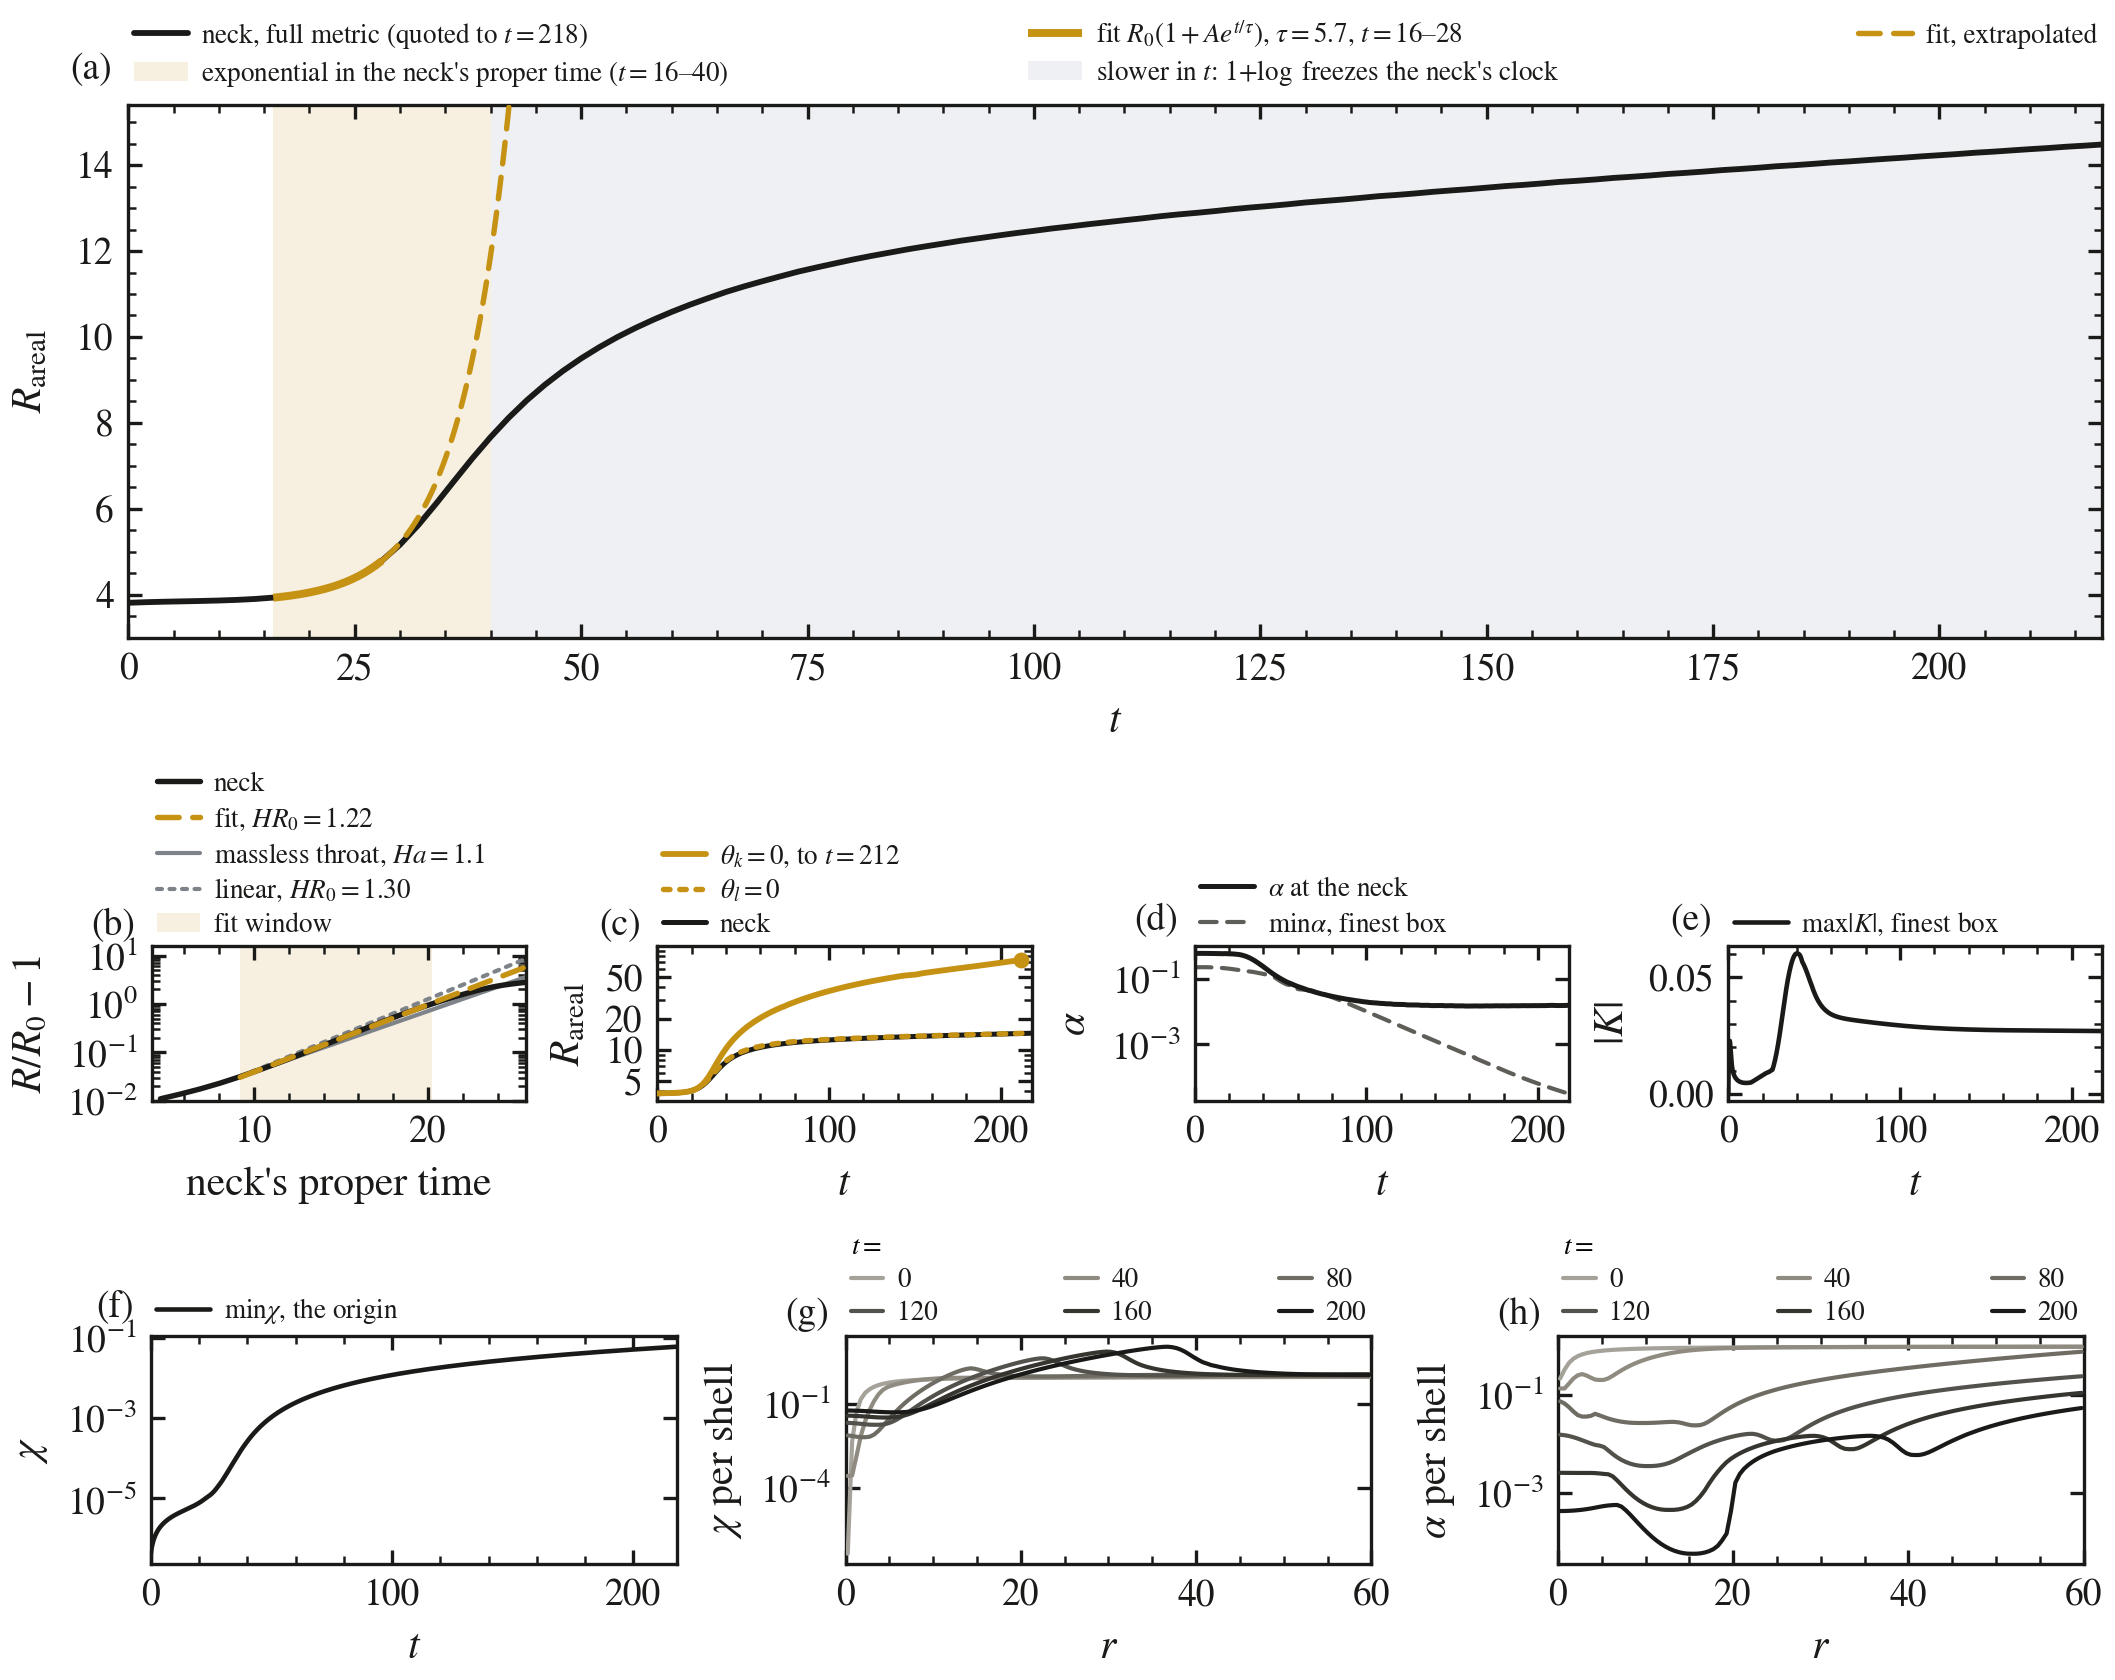
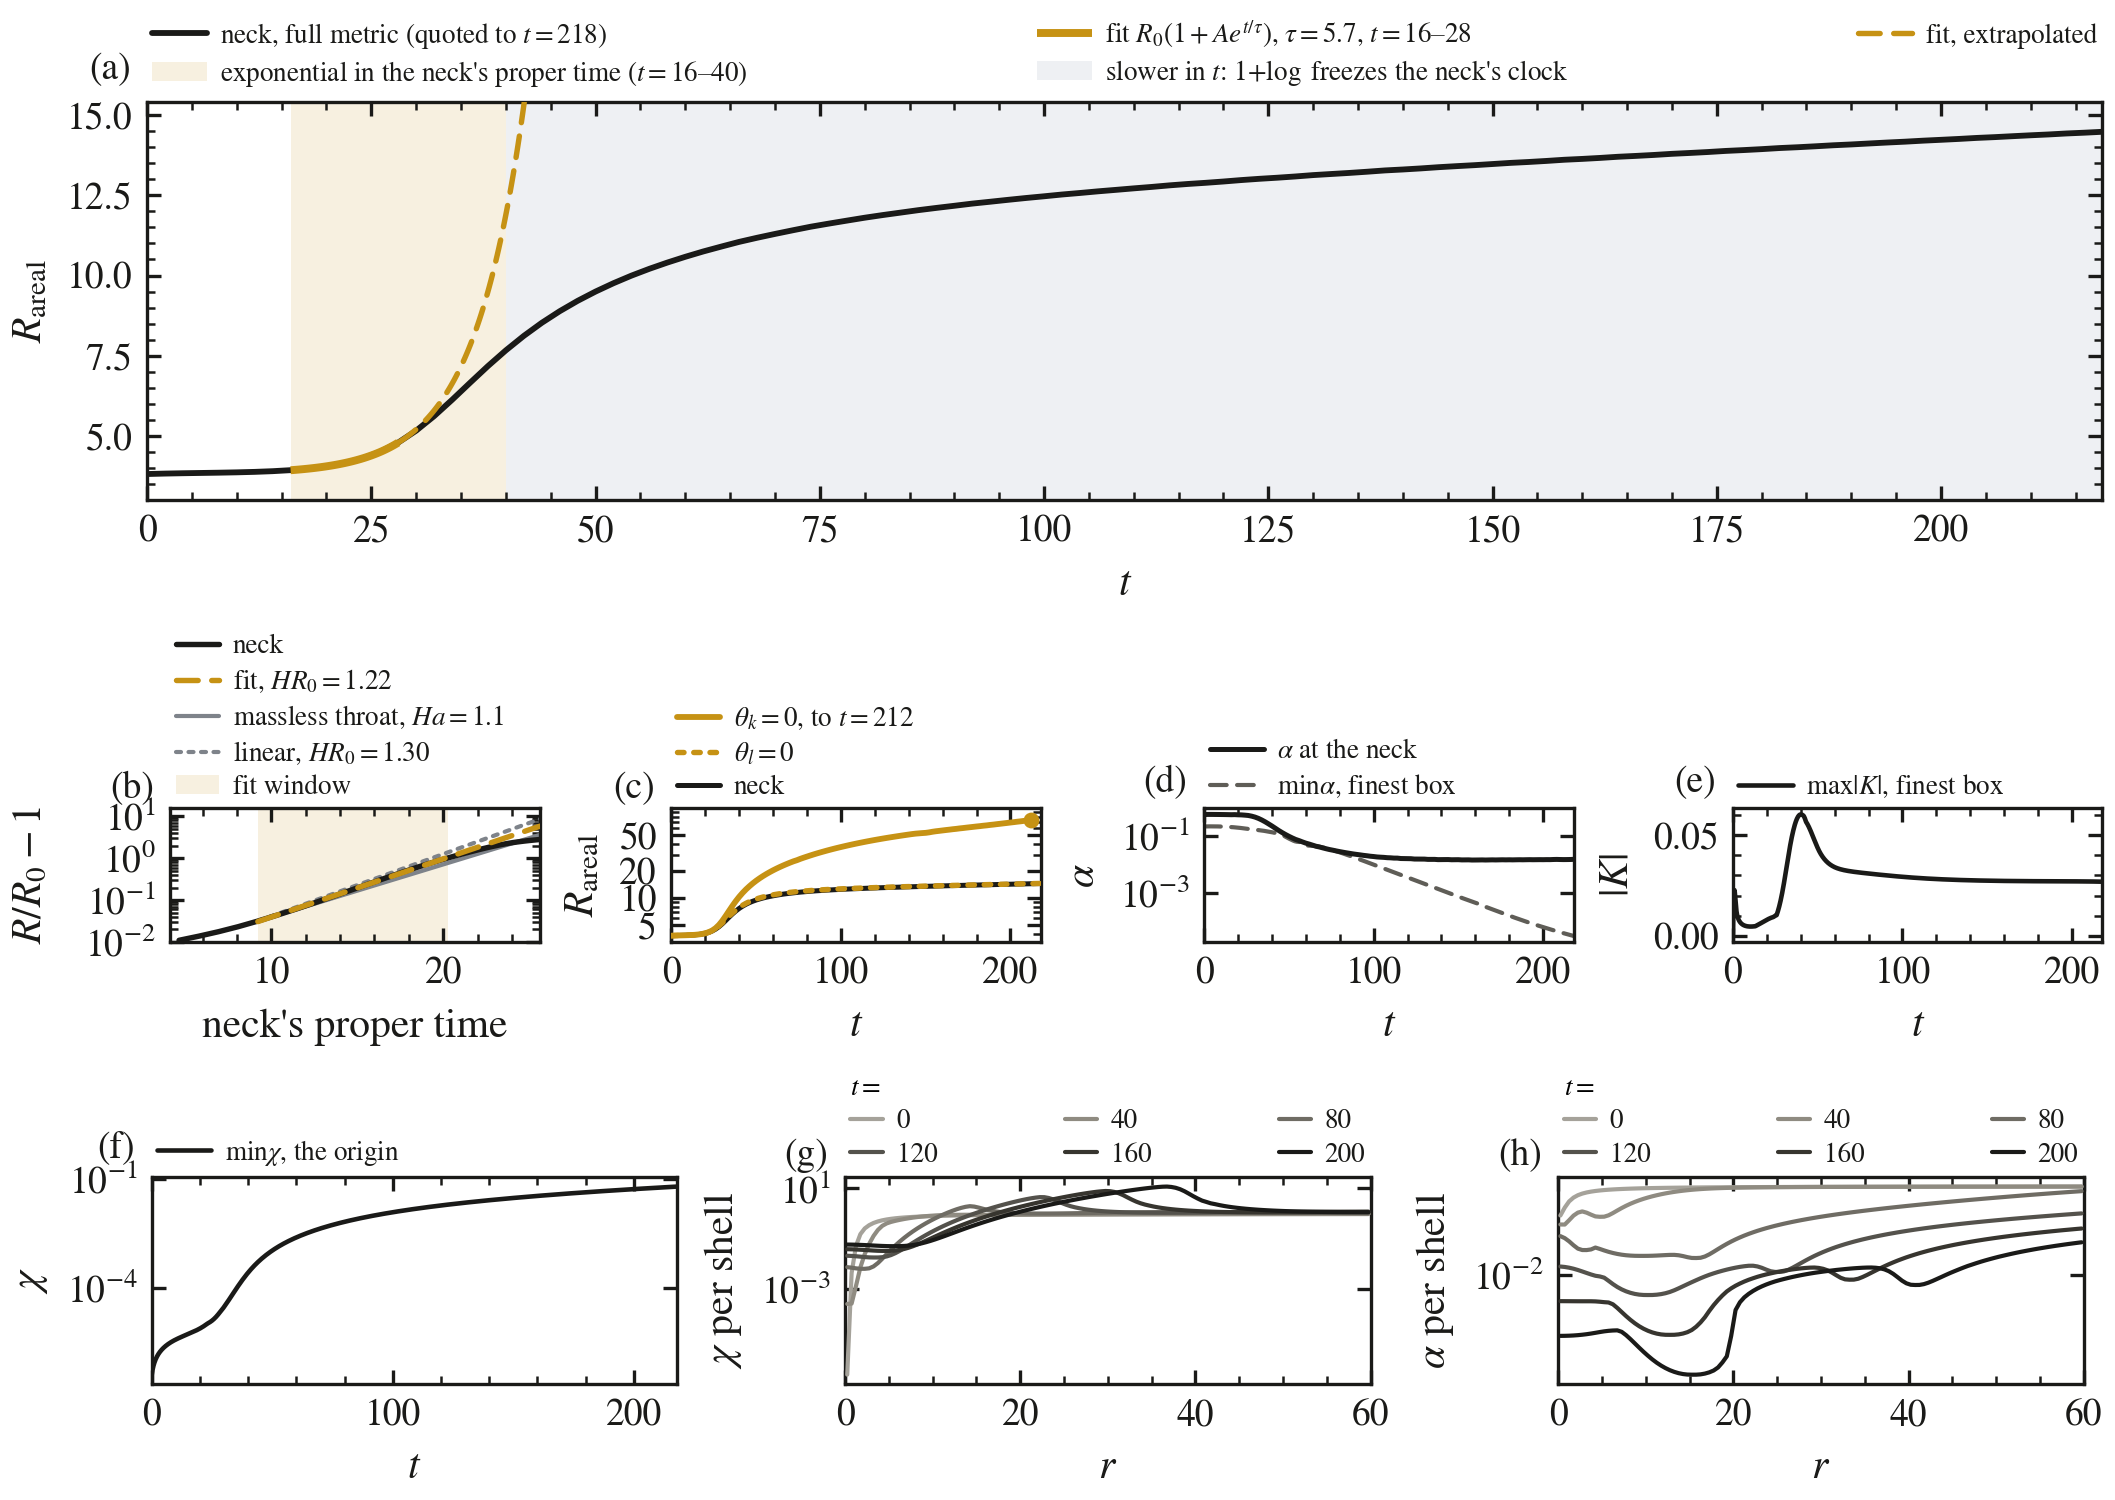
paper(merger): inflation strip redrawn to size; appendix packs denser
The inflation figure's (a) row was oversized by layout alone: its
gridspec gave (a) 1.15 of three rows on a 5.6-in canvas.  Redrawn at
0.9/1.0/1.0 on 5.0 in, the PDF is now 360 pt tall, exactly the
collapse strip's, so the two-branch figure carries both at width 0.70
(the 0.62 band-aid reverted); label audit 0 overlaps.  Appendix
density: the two merged appendix floats go to width 0.62 and
dbltopfraction/dblfloatpagefraction move to 0.92/0.55, so two floats
share a page instead of one per page.  Claims check 0 problems.

Claude-Session: https://claude.ai/code/session_01AwidYkPGK2W8N2DpZiACbB

diff --git a/research/merger/article/research.tex b/research/merger/article/research.tex
@@ -41,8 +41,8 @@
 % REVTeX sets its own float parameters as the document opens, so these have
 % to be applied after that, not in the preamble proper.
 \AtBeginDocument{%
-  \renewcommand{\dbltopfraction}{0.85}%
-  \renewcommand{\dblfloatpagefraction}{0.75}%
+  \renewcommand{\dbltopfraction}{0.92}%
+  \renewcommand{\dblfloatpagefraction}{0.55}%
   \renewcommand{\textfraction}{0.1}%
   \setcounter{dbltopnumber}{2}%
 }
@@ -325,7 +325,7 @@ The shrinking is physical; the regrowth that follows it in the scans is not. In 
 \begin{figure*}[t]
 \centering
 \includegraphics[width=0.70\textwidth]{01_single_throat/single_throat_collapse.pdf}\\[4pt]
-\includegraphics[width=0.62\textwidth]{01_single_throat/single_throat_inflation.pdf}
+\includegraphics[width=0.70\textwidth]{01_single_throat/single_throat_inflation.pdf}
 \caption{\emph{Top (collapse branch):} Collapse of the pure-quadrupole arm ($\varepsilon_2=\clmPureQuadAmpCaption$, no radial kick). (a)~Minimal-surface areal radius (ink) and the scan's MOTS (gold) from $t=\clmPureQuadMotsTime$: $R$ $\clmPureQuadMotsRStart\to\clmPureQuadMotsREnd$, $M_{\rm MS}$ $\clmPureQuadMotsMStart\to\clmPureQuadMotsMEnd$. Grey: the unkicked level-4 twin, which inflates on its own seed; this arm leaves it by $10\%$ only at $t=\clmPureQuadDeparture$---the second-order drive of the pure quadrupole. (b)--(d)~Global $\min\alpha$, $\min\chi$ (the origin, the far side's compactified infinity) and $\max|K|$; the violent phase spans $t=\clmCollapseViolentLo$--$\clmCollapseViolentHi$. (e),(f)~Radial profiles over \clmCollapseShells{} shells, $t=33$--$55$ (light = early): $|K|$ grows inward while $\alpha$ pinches to zero at the centre. Constraint norms: Fig.~\ref{fig:constraints}(c). The collapse ends in a black hole that consumes its supporting field. \emph{Bottom (inflation branch):} The inflating throat ($\varepsilon=-10^{-2}$; $L=\clmFourBoxL$ octant, finest $\Delta x=\clmFourFinestDx$) to $t=\clmFourWall$. (a)~Neck areal radius in the full metric, $\clmFourRStart\to\clmFourRWall$; gold, the exponential onset, $\tau=\clmFourOnsetEfold$ over $t=\clmFourOnsetLo$--$\clmFourOnsetHi$; shaded, exponential growth in the neck's proper time ($t=\clmFourSHWinLo$--$\clmFourSHWinHi$, gold) and the slower growth in $t$ once $1{+}\log$ freezes the neck's clock (grey). (b)~Over that window the neck's proper-time rate is $HR_0=\clmFourSHRate$ (local $\clmFourSHLocalLo$--$\clmFourSHLocalHi$), against the massless throat's $Ha=\clmSHMassless$~\cite{shinkai2002} and the linear mode's $\clmFourLinearRate$. (c)~The $\theta_l=0$ horizon stays on the neck; $\theta_k=0$ runs out to $R\approx\clmFourHorizonR$ by $t=\clmFourHorizonTime$. (d)~The lapse at the neck falls $\clmFourLapseStart\to\clmFourLapseEnd$; dashed, its minimum on the finest box. (e),(f)~$\max|K|$ and $\min\chi$ on the finest box, around the origin. (g),(h)~$\chi$ and $\alpha$ per shell (light = early): the $\chi$ peak moves out with the neck. Constraint norms: Fig.~\ref{fig:constraints}(d). The throat keeps growing, anti-trapped; its onset is at the linear rate.}
 \label{fig:single_collapse}\label{fig:single_inflation}
 \end{figure*}
@@ -656,8 +656,8 @@ Five measurements support the main text without being needed to follow it: the m
 
 \begin{figure*}[t]
 \centering
-\includegraphics[width=0.70\textwidth]{05_binary_spiral/momentum_scan_orbits.pdf}\\[4pt]
-\includegraphics[width=0.70\textwidth]{05_binary_spiral/mouth_growth.pdf}
+\includegraphics[width=0.62\textwidth]{05_binary_spiral/momentum_scan_orbits.pdf}\\[4pt]
+\includegraphics[width=0.62\textwidth]{05_binary_spiral/mouth_growth.pdf}
 \caption{\emph{Top (orbits):} Merger or fly-by: the momentum scan from $d=\clmPairSeparation$ with opposite signs, from the head-on release ($p=0$) to the fly-by ($p=\clmSpiralMomentumFlyby$). (a)~Both throats in the orbital plane; (b)~their separation. The tracks are the coordinate positions of the $\chi$ pits, followed through each run. Grey, light to dark: the plunges $p=0$, $\clmSpiralMomentumProd$, $\clmSpiralMomentumFifteen$, $\clmSpiralMomentumTwenty$ and $\clmSpiralMomentumTwentyFive$, each drawn until $\chi$ first reaches its floor or the run ends (dots); gold: the fly-bys $p=\clmSpiralMomentumThirtyFive$ (dashed) and $\clmSpiralMomentumFlyby$. Every arm is level 3 except the $p=\clmSpiralMomentumFlyby$ fly-by, the level-5 arm of the text; since a level-3 pit sits on a cell of side $\clmFinestDx$, the tracks are averaged over two time units. The fly-by turns at closest approach, $\clmFlybyClosestApproach$ at $t\approx\clmFlybyClosestTime$; from $t\approx\clmFlybyScanEdgeTime$ its mouths have inflated past the scan window, and the faint stretch is the separation of the $\chi$ pits of two inflating mouths, not of two compact throats, and ends at $t=\clmFlybyTrust$, where the fly-by's trust window closes. \emph{Bottom (mouth growth):} Mouth growth in the merging ($p=\clmSpiralMomentumProd$) and scattering ($p=\clmSpiralMomentumFlyby$) arms, both from $d=12$ with the same throats; the merger's instrumented re-run carries three refinement levels and the fly-by five. (a)~Areal radius of one mouth (its twin agrees to $\clmMouthTwinAgreement$): solid while the two scan spheres are disjoint, dotted once they overlap; long dash, the common-centre scan. No trapped surface appears on these star-shaped scans, which end at $t=\clmMouthScanEnd$ (merger) and $t=\clmFlybyTrust$ (fly-by, its trust window). (b)~Separation: $p=\clmSpiralMomentumProd$ reaches contact, $p=\clmSpiralMomentumFlyby$ misses at $\clmFlybyClosestApproach$. (c)~Growth excess $R/R_0-1$ with exponential fits over $t=\clmMouthFitStart$--$\clmMouthFitEnd$ (gold): $\tau=\clmMouthTauMerger$ (merger) and $\clmMouthTauFlyby$ (fly-by), as read. The reading includes the companion's field; with it removed (Sec.~\ref{sec:spiral:inspiral}) the merger shows no growth of its own and the fly-by has $\tau=\clmMouthTauFlybyPlaced$.}
 \label{fig:orbits}\label{fig:mouth_growth}
 \end{figure*}
@@ -671,8 +671,8 @@ Five measurements support the main text without being needed to follow it: the m
 
 \begin{figure*}[t]
 \centering
-\includegraphics[width=0.70\textwidth]{08_waves/scalar_channel.pdf}\\[4pt]
-\includegraphics[width=0.70\textwidth]{08_waves/scalar_censorship.pdf}
+\includegraphics[width=0.62\textwidth]{08_waves/scalar_channel.pdf}\\[4pt]
+\includegraphics[width=0.62\textwidth]{08_waves/scalar_censorship.pdf}
 \caption{\emph{Top (channel):} The scalar channel on the $\Psi_4$ spheres.
 (a)~Fly-by energy through $R=\clmGwScalarRadiusOuter$ in units of the gravitational energy crossed by $t=\clmGwScalarNormCut$: gravitational (ink) and scalar with its physical sign (gold, Sec.~\ref{sec:gw:scalar}). The ratio $|E_\phi|/E_{\rm GW}$ printed at each cut falls from $\clmGwScalarRatioFifty$ to $\clmGwScalarRatioEighty$ as the gravitational burst arrives and this running integral drifts (Sec.~\ref{sec:gw:scalar}); $t=\clmGwScalarNormCut$ is where the fly-by's trust window closes on this sphere ($t-R=\clmFlybyTrustRetarded$).
 (b)~Multipole content, fly-by: $\ell=1$ exceeds $\ell=0$ and $\ell=2$ by $10^{\clmGwScalarDipoleGap}$.

diff --git a/grteclyn-wrapper/src/grteclyn_wrapper/visualisation/wormhole_merger/plot_single_inflation.py b/grteclyn-wrapper/src/grteclyn_wrapper/visualisation/wormhole_merger/plot_single_inflation.py
@@ -133,12 +133,12 @@ def main(argv: list[str] | None = None) -> int:
     R0 = on["R0"]
 
     style.prd(base=10.0)
-    fig = plt.figure(figsize=(7.05, 5.6), constrained_layout=True)
+    fig = plt.figure(figsize=(7.05, 5.0), constrained_layout=True)
     # the strip over a row of four panels and a row of three
     # One sub-grid per row: on a shared 12-column grid the rows' column edges
     # (3/6/9 against 4/8) do not line up, and constrained layout, which keeps
     # one margin per column, collapsed the axes to zero.
-    gs = fig.add_gridspec(3, 1, height_ratios=[1.15, 1.0, 1.0])
+    gs = fig.add_gridspec(3, 1, height_ratios=[0.9, 1.0, 1.0])
     axT = fig.add_subplot(gs[0])
     row2, row3 = gs[1].subgridspec(1, 4), gs[2].subgridspec(1, 3)
     axs = ([fig.add_subplot(row2[0, i]) for i in range(4)]
